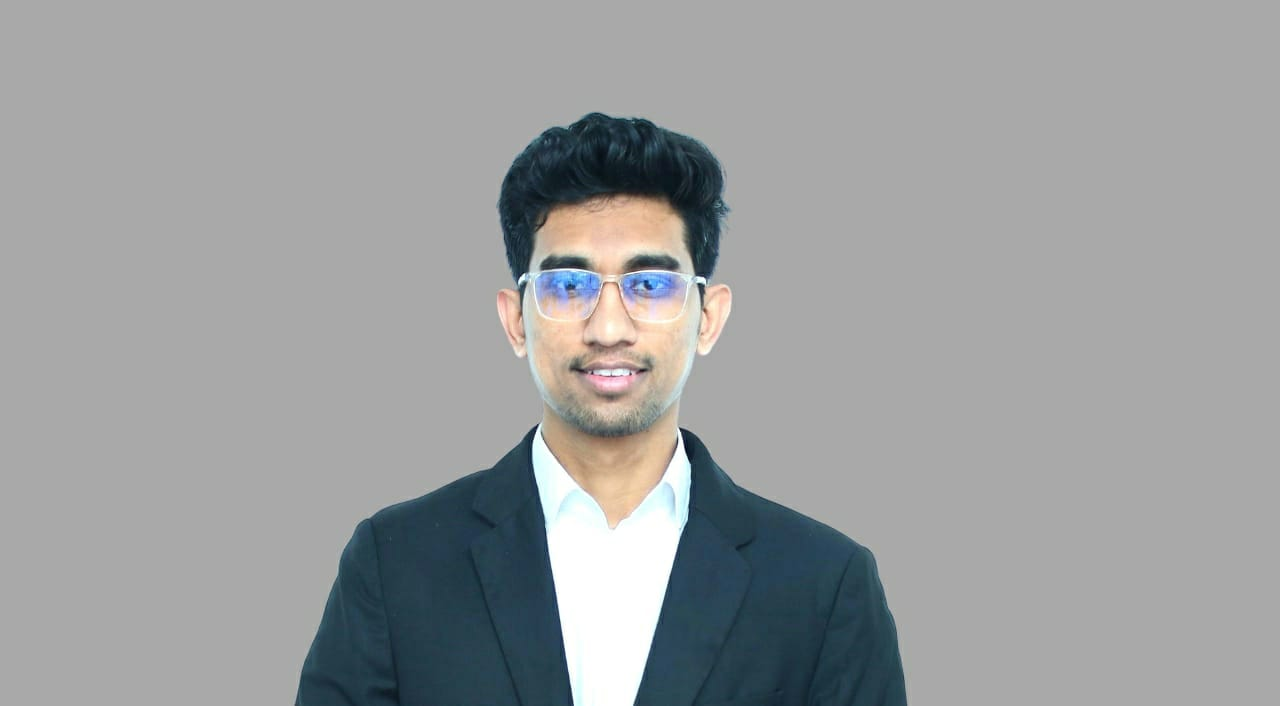
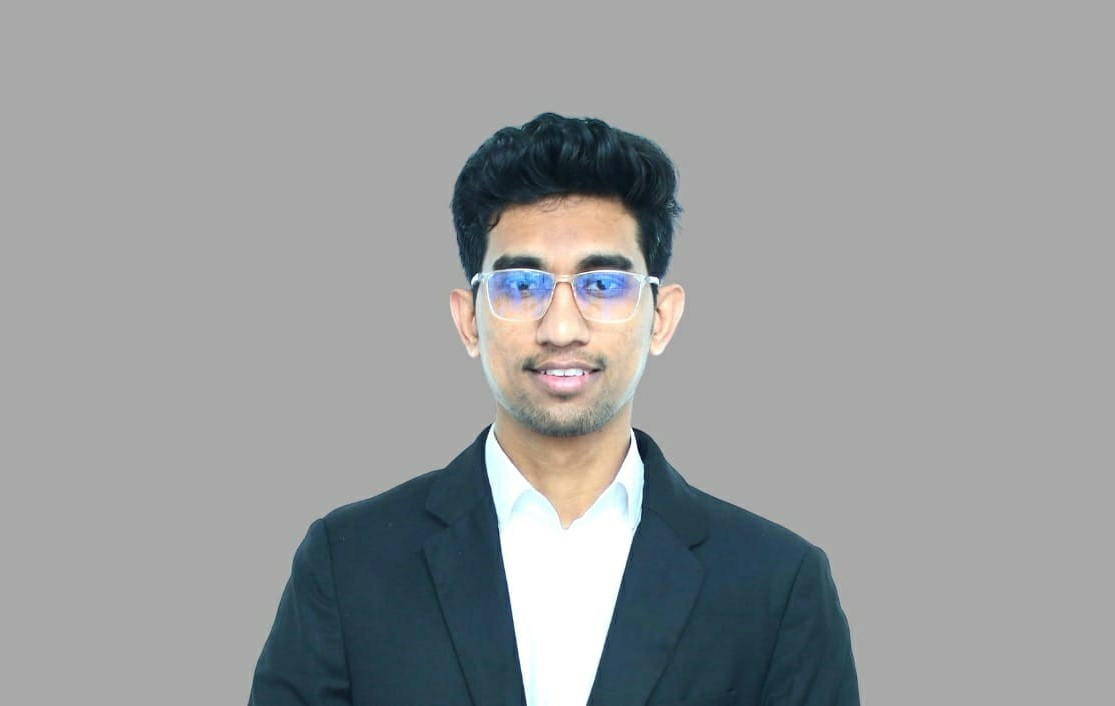
mode chnages in portfolio

Changed region(s): [[0.3049, 0.1558, 0.7928, 1.0], [0.2439, 0.779, 0.2744, 0.9037], [0.2135, 0.9037, 0.2439, 1.0]]

diff --git a/index.html b/index.html
@@ -103,6 +103,20 @@
             >View Project</a
           >
         </div>
+        <div class="project">
+          <h3>Synthetic Data Generator for Privacy</h3>
+          <p>
+            Interactive Streamlit app to generate synthetic datasets for privacy-preserving analytics.Automatically detects columns to synthesize, supports multiple models (GaussianCopula, CTGAN, TVAE), 
+            and provides visual comparisons and correlation heatmaps. 
+            Users can download datasets in CSV for analysis or AI/ML tasks.
+          </p>
+          <a
+            href="https://github.com/Abbasali-Sunasara/projects/tree/a4adaba76e23cd5e297ba6551b0d9ece96d6ae23/synthetic_data_gen"
+            class="btn"
+            target="_blank"
+            >View Project</a
+          >
+        </div>
       </div>
     </section>
 
@@ -169,9 +183,14 @@
         box-shadow: 0 2px 10px rgba(0, 0, 0, 0.5);
       }
 
+      
+      
       .profile {
         margin-right: 20px;
+        flex-shrink: 0;
       }
+
+      
 
       .profile-photo {
         width: 130px;
@@ -363,6 +382,7 @@ nav ul li a.download-btn {
   position: relative;
   width: max-content; /* This will make the width adjust based on the content */
   animation-delay: 2s;
+  margin-top: 10px; 
    
 }
 
